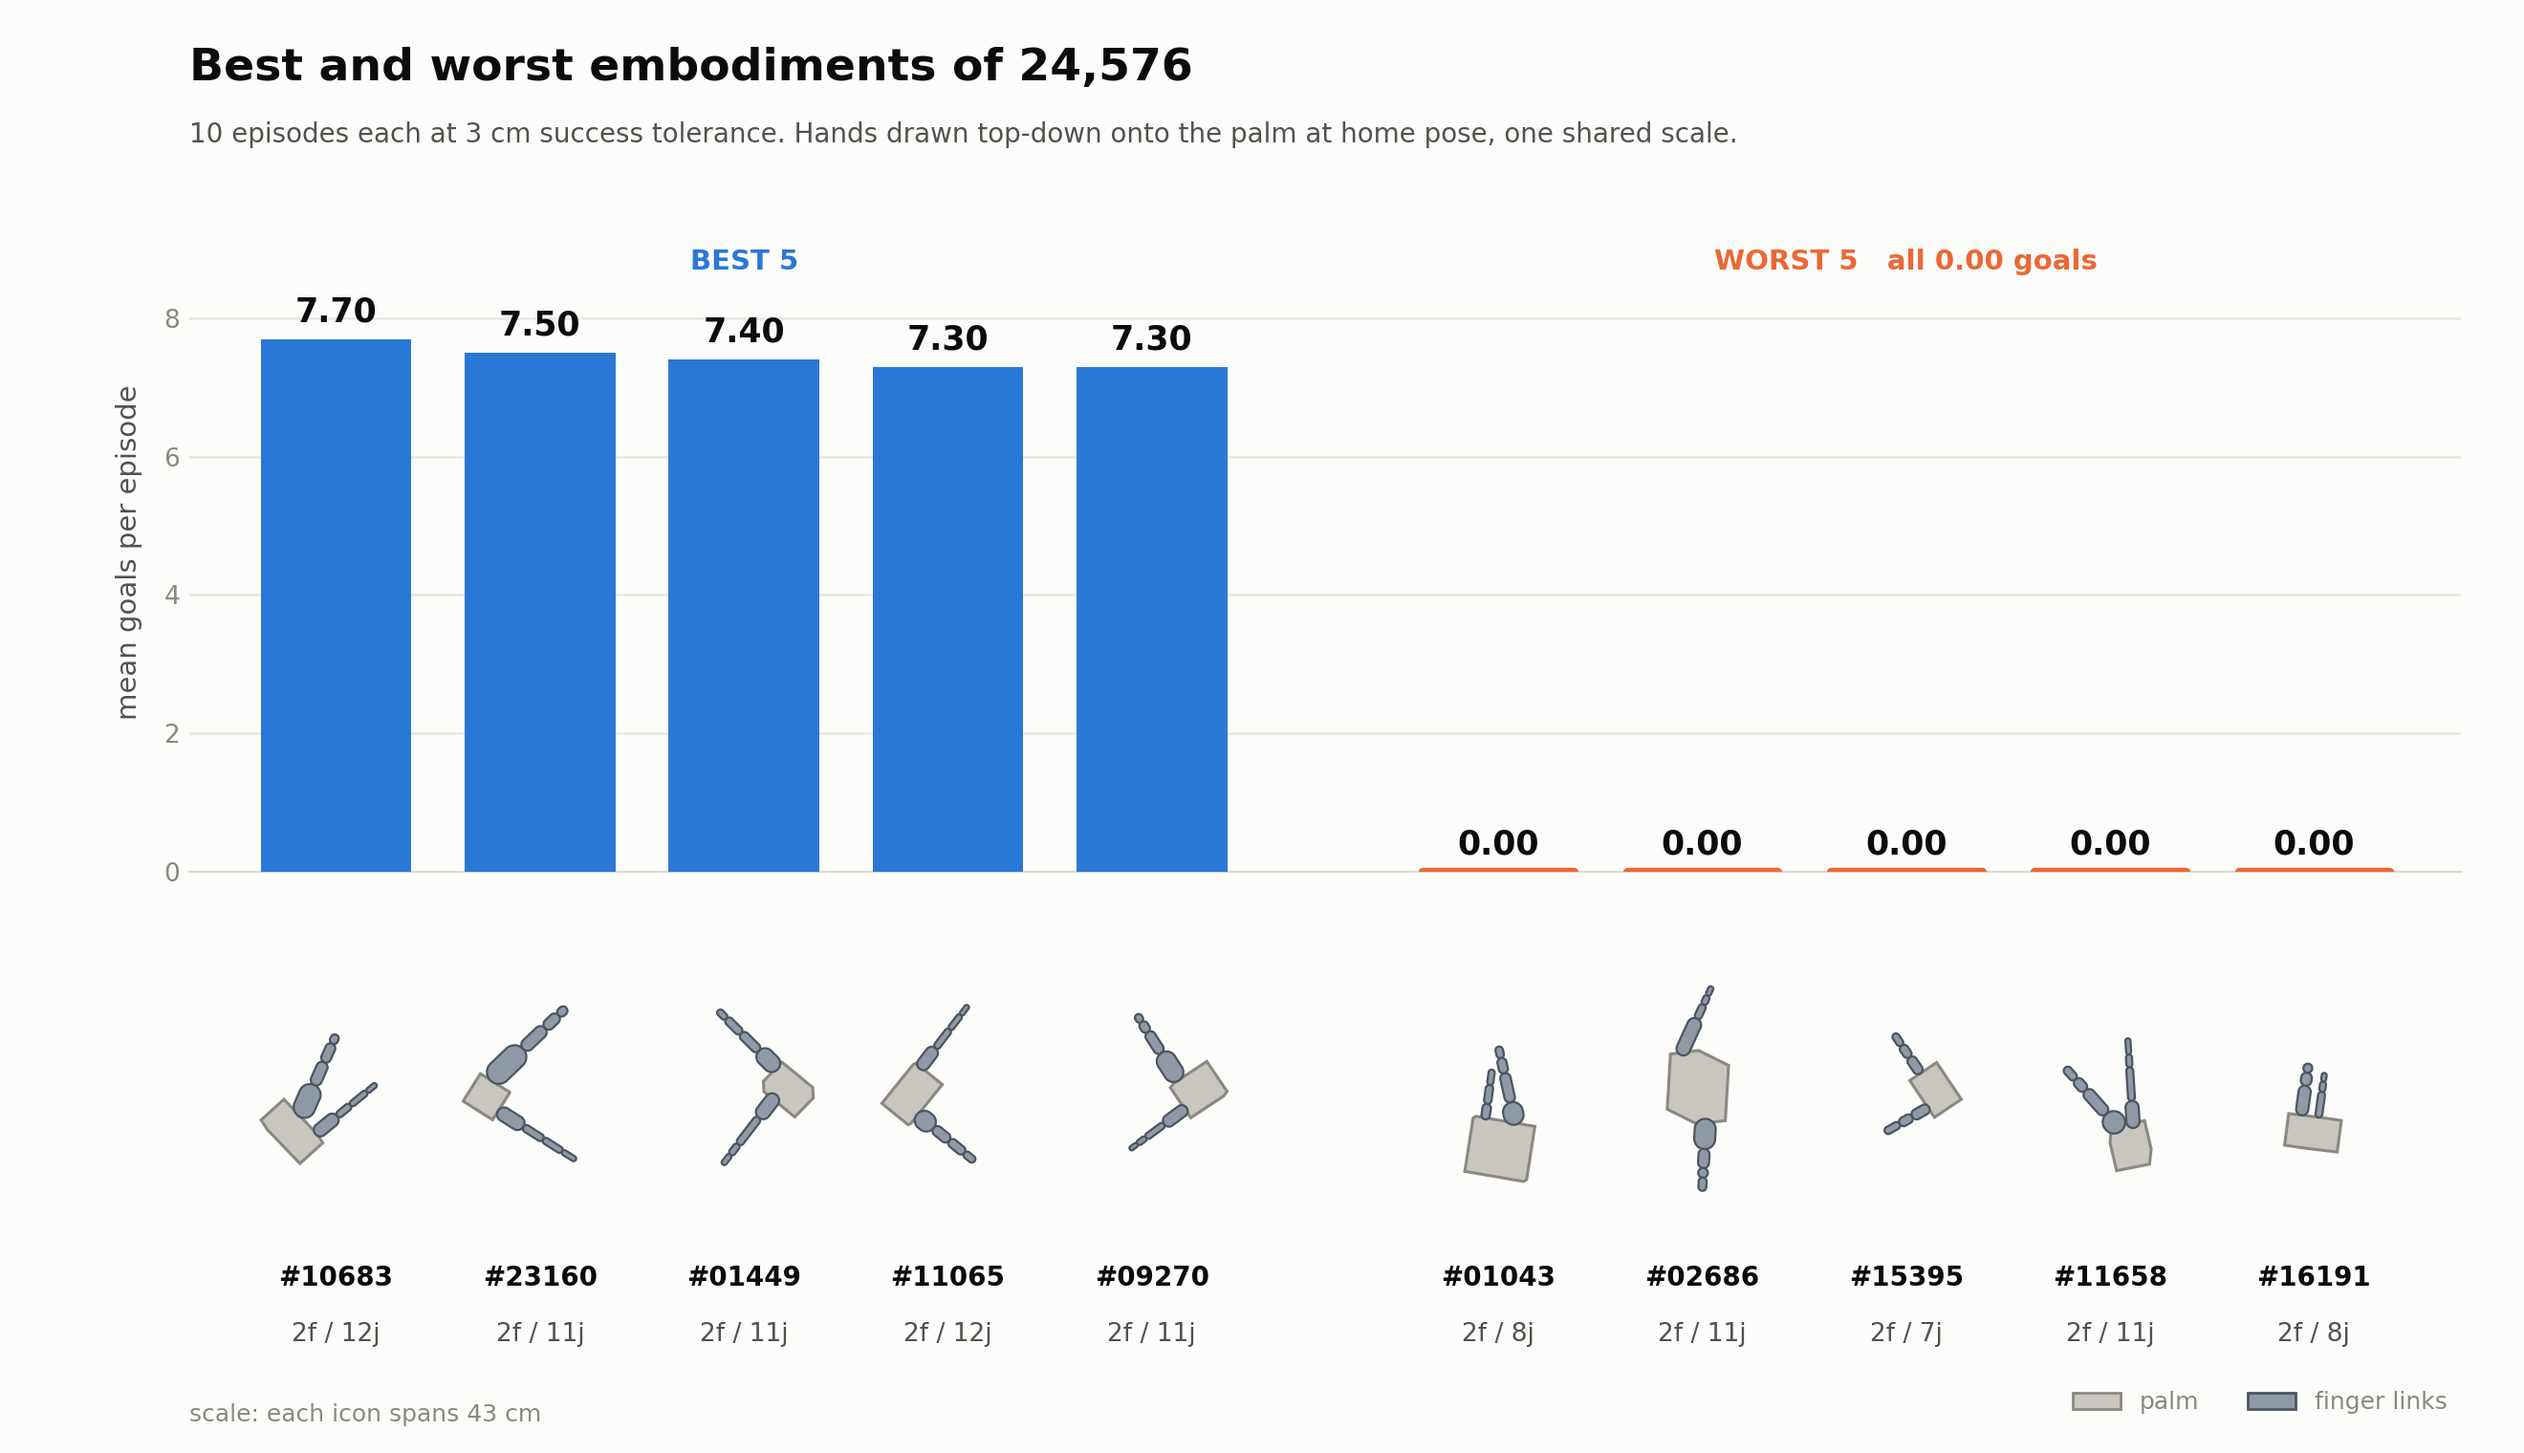
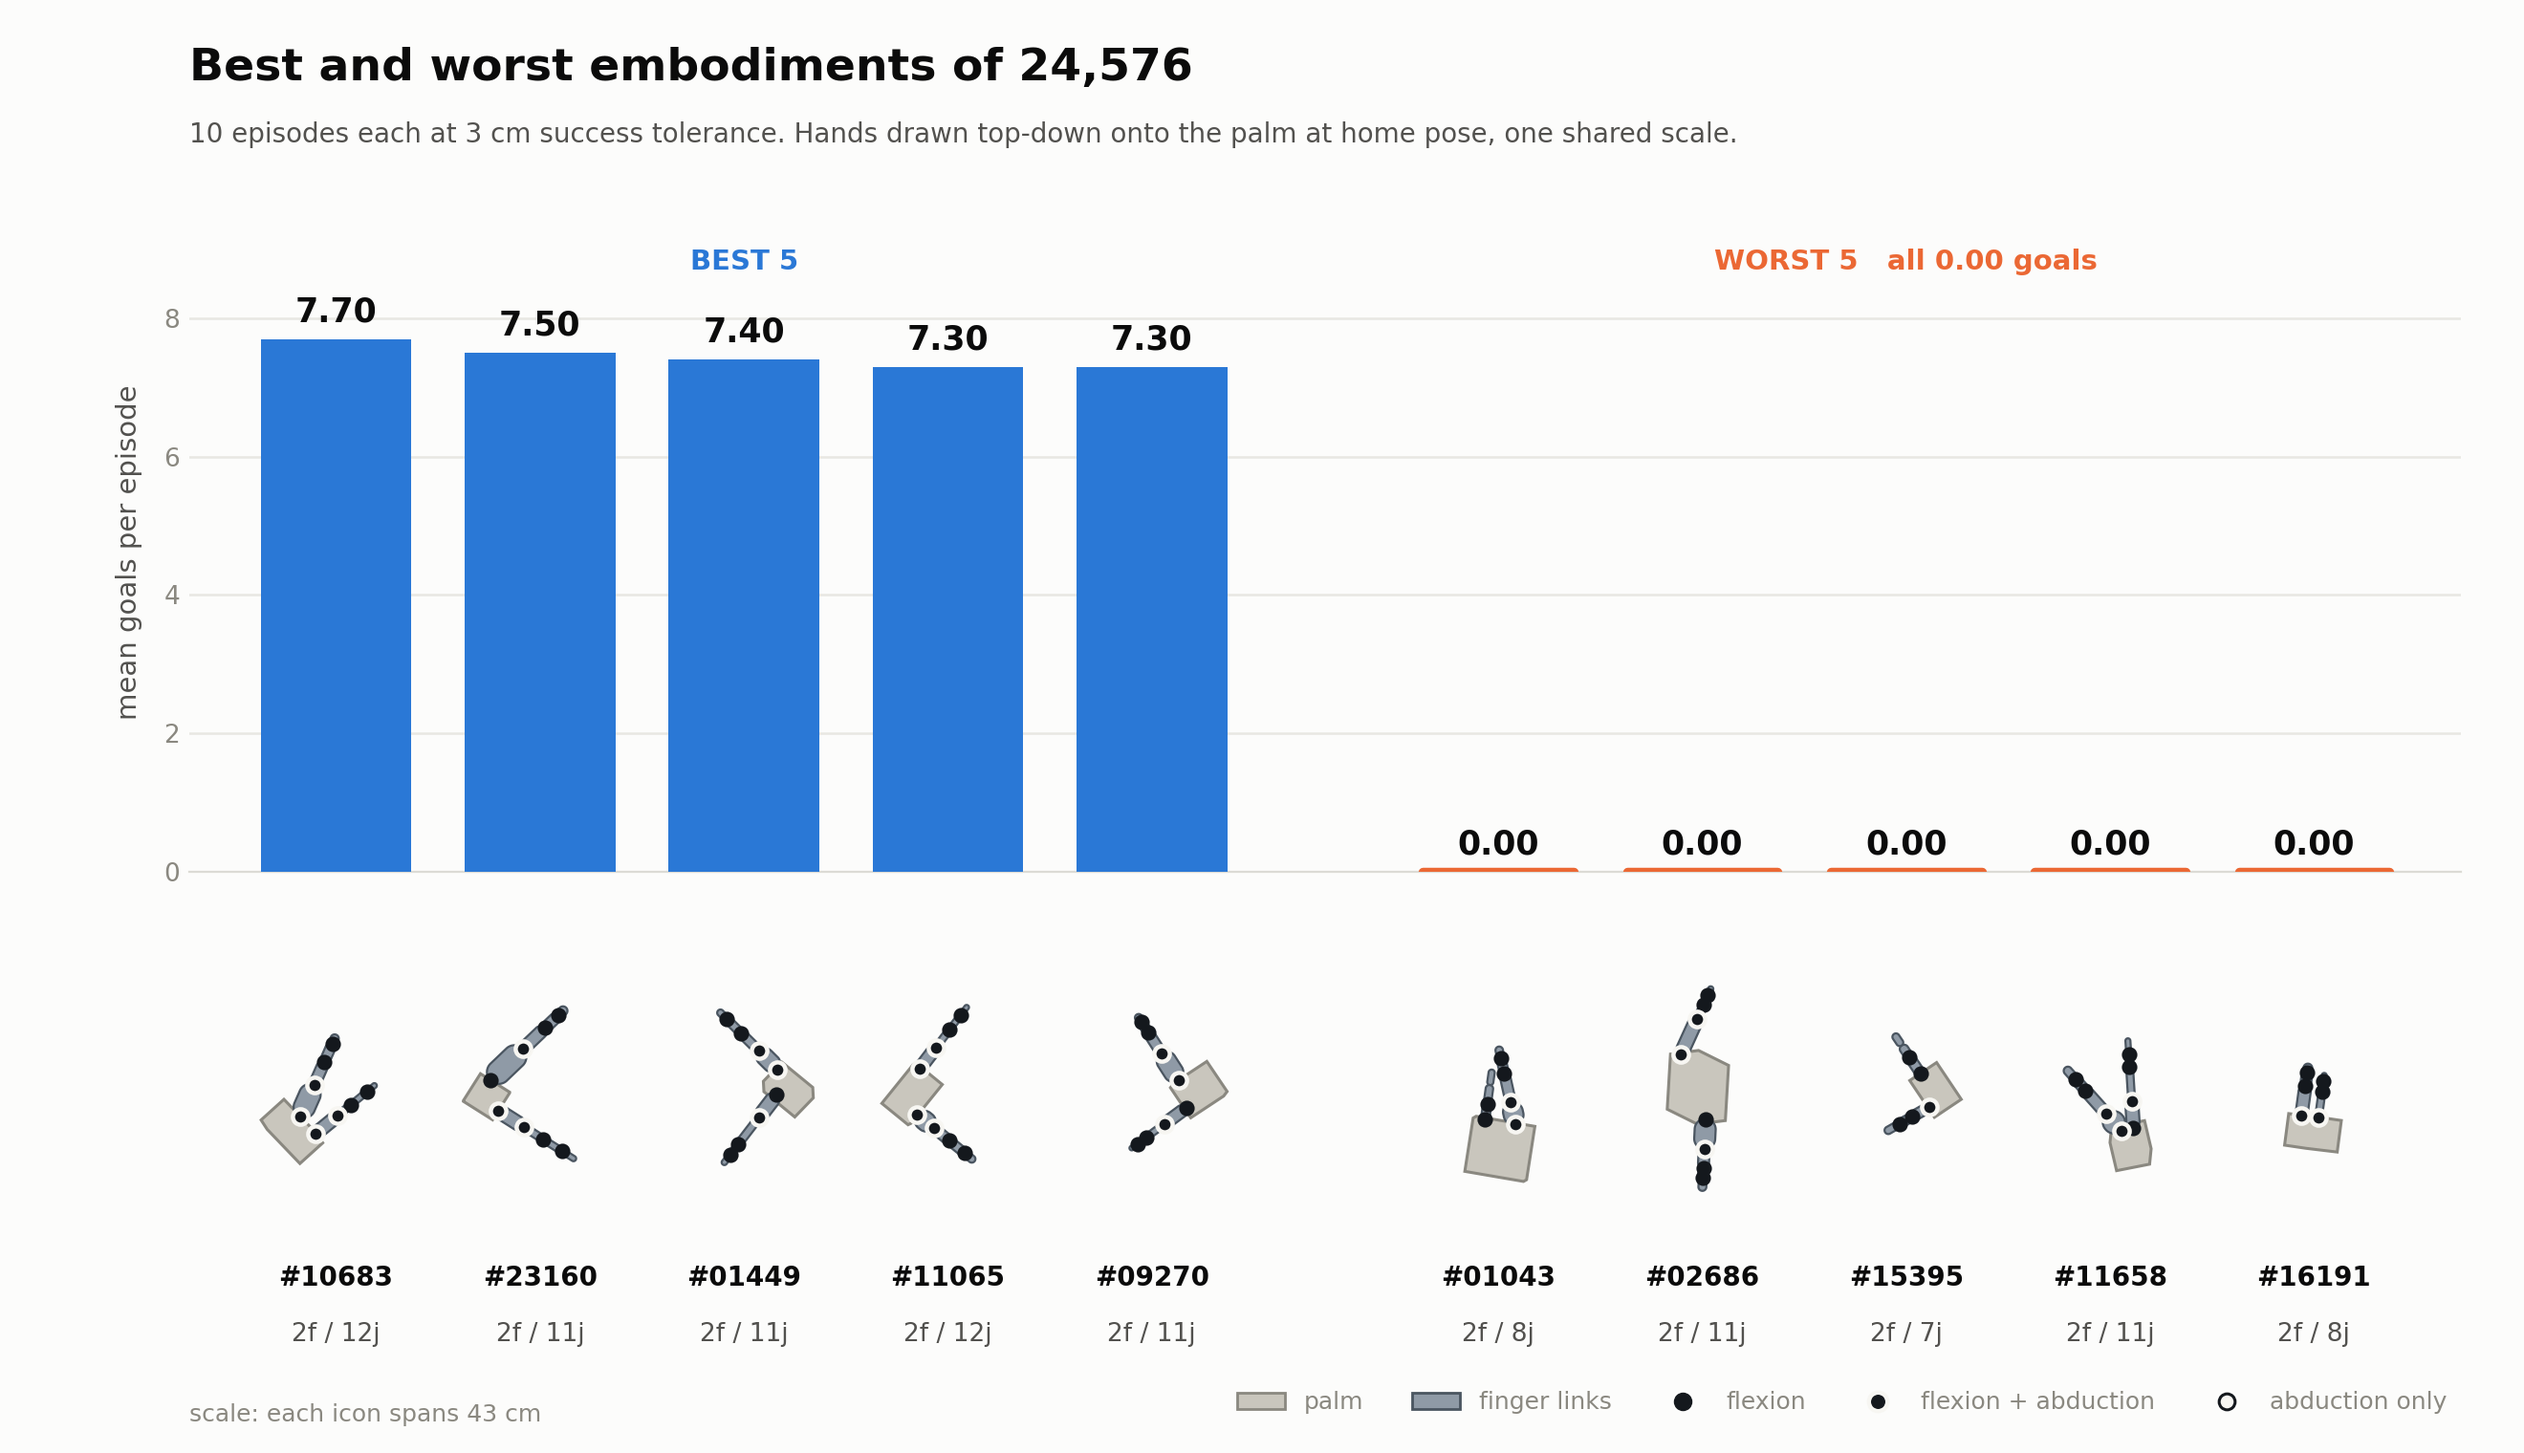
figure: mark active joints, and split abduction from flexion
Dots on each hand pictogram now show where the DoF actually is, not just how
much of it there is. A joint counts as active when its limit range is non-zero:
ghosting pins a joint to ~0 travel rather than deleting it, so the joint list
alone over-counts. That test reproduces spec.n_active_joints exactly on every
design checked, so the marks and the "Nj" label under each hand cannot disagree.

The first version undercounted anyway, silently. AA and FE at one knuckle are
EXACTLY co-located -- identical child-link origins to six decimals -- so one dot
per joint drew design 10683's twelve joints as eight marks. Marks are now
grouped by position and encode which axes move there:

    filled black          flexion only
    filled black + white  flexion AND abduction
    white                 abduction only (flexion ghosted)

Shape and fill rather than a third hue, because the figure already spends blue
and orange on best/worst and this is a property of a mark, not a category. Both
CMC and MCP come in FE/AA pairs and either half can be ghosted independently,
which is why the abduction-only case exists even though the current selection
does not contain one.

What it shows: the best five all carry 3-4 abducting knuckles, the worst design
carries one. Abduction is the axis that spreads fingers laterally, and it is
also the one limit the sampler varies per design (utils/morphology.py), so the
better hands are not simply higher-DoF -- they are the ones that can reposition
[…]

diff --git a/genmech/eval/embodiments/plot_best_worst.py b/genmech/eval/embodiments/plot_best_worst.py
@@ -52,6 +52,11 @@ PALM_FACE = "#c9c6bd"
 PALM_EDGE = "#8a8880"
 FINGER_FACE = "#8f9aa6"
 FINGER_EDGE = "#4a5560"
+# Active joints are marked in near-black ink with a light ring, NOT in a third
+# hue: the figure already spends blue and orange on best/worst, and a coloured
+# joint dot would read as a third category rather than as an annotation.
+JOINT_FACE = "#14181d"
+JOINT_RING = "#f7f6f2"
 
 
 def load_rows(results_dir: Path) -> list[dict]:
@@ -90,7 +95,7 @@ def pick(rows: list[dict], n: int) -> tuple[list[int], list[int]]:
     return best, worst
 
 
-def draw_hand(ax, link_hulls, half_extent: float) -> None:
+def draw_hand(ax, hand, half_extent: float) -> None:
     """Draw one top-down hand into an existing axes, at a SHARED scale.
 
     Drawn straight into a figure axes rather than rasterised and pasted with
@@ -100,6 +105,7 @@ def draw_hand(ax, link_hulls, half_extent: float) -> None:
     """
     from matplotlib.patches import Polygon
 
+    link_hulls = hand["hulls"]
     for is_palm, hull in link_hulls:
         ax.add_patch(Polygon(
             hull, closed=True,
@@ -107,6 +113,21 @@ def draw_hand(ax, link_hulls, half_extent: float) -> None:
             edgecolor=PALM_EDGE if is_palm else FINGER_EDGE,
             linewidth=1.1 if is_palm else 0.8,
             zorder=2 if is_palm else 3))
+    # Joint marks encode which axes actually move at each knuckle:
+    #   filled black          flexion only
+    #   filled black + white  flexion AND abduction
+    #   white                 abduction only (flexion ghosted)
+    # Shape and fill rather than a third hue -- the figure already spends blue
+    # and orange on best/worst, and this is a property of a mark, not a category.
+    for pts, face, edge, width in (
+        (hand["fe_only"], JOINT_FACE, JOINT_FACE, 0.0),
+        (hand["fe_and_aa"], JOINT_FACE, JOINT_RING, 1.6),
+        (hand["aa_only"], JOINT_RING, JOINT_FACE, 1.1),
+    ):
+        if not len(pts):
+            continue
+        ax.scatter(pts[:, 0], pts[:, 1], s=34, facecolor=face, edgecolor=edge,
+                   linewidths=width, zorder=6)
     ax.set_xlim(-half_extent, half_extent)
     ax.set_ylim(-half_extent, half_extent)
     ax.set_aspect("equal")
@@ -173,6 +194,39 @@ def hand_hulls(design: str):
 
     palm_inv = np.linalg.inv(urdf.get_transform("gen_palm"))
 
+    # An ACTIVE joint is one that can actually move. Ghosting pins a joint's
+    # limits to a ~0 range rather than deleting it, so the joint list alone
+    # over-counts; the range is what distinguishes them, and it reproduces
+    # spec.n_active_joints exactly.
+    # An ACTIVE joint can actually move; ghosting pins limits to a ~0 range
+    # rather than deleting the joint, so the joint list alone over-counts.
+    #
+    # AA and FE at the same knuckle are EXACTLY co-located -- same child origin
+    # to the last decimal -- so plotting one dot per joint silently draws 12
+    # joints as 8 dots. Group by position instead and mark the knuckle once,
+    # ringed when it also abducts. The dot count then matches the "Nj" label.
+    knuckles: dict = {}
+    for joint in urdf.robot.joints:
+        if joint.type == "fixed" or not joint.child.startswith("gen_"):
+            continue
+        lim = joint.limit
+        if lim is None or lim.lower is None or lim.upper is None:
+            continue
+        if (lim.upper - lim.lower) <= 1e-4:
+            continue
+        pos = (palm_inv @ urdf.get_transform(joint.child))[:3, 3]
+        key = tuple(np.round(pos, 6))
+        entry = knuckles.setdefault(key, {"pos": pos, "aa": False, "fe": False,
+                                          "n": 0})
+        entry["n"] += 1
+        # Both CMC and MCP come in FE/AA pairs; PIP and DIP are flexion only.
+        # Either half can be ghosted independently, so a knuckle can end up with
+        # abduction and no flexion.
+        if joint.name.endswith("_AA"):
+            entry["aa"] = True
+        else:
+            entry["fe"] = True
+
     meshes = []
     for name, link in urdf.link_map.items():
         if not name.startswith("gen_"):
@@ -212,7 +266,21 @@ def hand_hulls(design: str):
             out.append((is_palm, pts[ConvexHull(pts).vertices]))
         except Exception:                        # degenerate (edge-on) link
             continue
-    return out or None
+    if not out:
+        return None
+    def project(entries):
+        if not entries:
+            return np.empty((0, 2))
+        return (np.array([e["pos"] for e in entries]) - centre) @ basis
+
+    vals = list(knuckles.values())
+    return {
+        "hulls": out,
+        "fe_only": project([e for e in vals if e["fe"] and not e["aa"]]),
+        "fe_and_aa": project([e for e in vals if e["fe"] and e["aa"]]),
+        "aa_only": project([e for e in vals if e["aa"] and not e["fe"]]),
+        "n_active": sum(e["n"] for e in vals),
+    }
 
 
 def main() -> int:
@@ -225,6 +293,7 @@ def main() -> int:
     import matplotlib
     matplotlib.use("Agg")
     import matplotlib.pyplot as plt
+    from matplotlib.lines import Line2D
     from matplotlib.patches import Patch
 
     results = Path(args.results)
@@ -241,7 +310,7 @@ def main() -> int:
     # One half-extent for all ten, so a hand that reaches twice as far is drawn
     # twice as large. Per-hand autoscaling would make every hand look the same
     # size, which is the opposite of what this figure is for.
-    half = max((np.abs(np.vstack([h for _, h in hs])).max()
+    half = max((np.abs(np.vstack([h for _, h in hs["hulls"]])).max()
                 for hs in hulls.values() if hs), default=0.05) * 1.06
     print(f"[plot] hand pictograms at shared half-extent {half * 100:.1f} cm")
 
@@ -317,8 +386,19 @@ def main() -> int:
 
     fig.legend(handles=[Patch(facecolor=PALM_FACE, edgecolor=PALM_EDGE, label="palm"),
                         Patch(facecolor=FINGER_FACE, edgecolor=FINGER_EDGE,
-                              label="finger links")],
-               loc="lower right", bbox_to_anchor=(0.978, 0.012), ncol=2,
+                              label="finger links"),
+                        Line2D([], [], marker="o", linestyle="none",
+                               markerfacecolor=JOINT_FACE, markeredgecolor=JOINT_FACE,
+                               markersize=6, label="flexion"),
+                        Line2D([], [], marker="o", linestyle="none",
+                               markerfacecolor=JOINT_FACE, markeredgecolor=JOINT_RING,
+                               markeredgewidth=1.6, markersize=7,
+                               label="flexion + abduction"),
+                        Line2D([], [], marker="o", linestyle="none",
+                               markerfacecolor=JOINT_RING, markeredgecolor=JOINT_FACE,
+                               markeredgewidth=1.1, markersize=6,
+                               label="abduction only")],
+               loc="lower right", bbox_to_anchor=(0.978, 0.012), ncol=5,
                frameon=False, fontsize=9, labelcolor=INK_MUTED)
     fig.text(0.075, 0.022, f"scale: each icon spans {2 * half * 100:.0f} cm",
              fontsize=9, color=INK_MUTED, ha="left")
